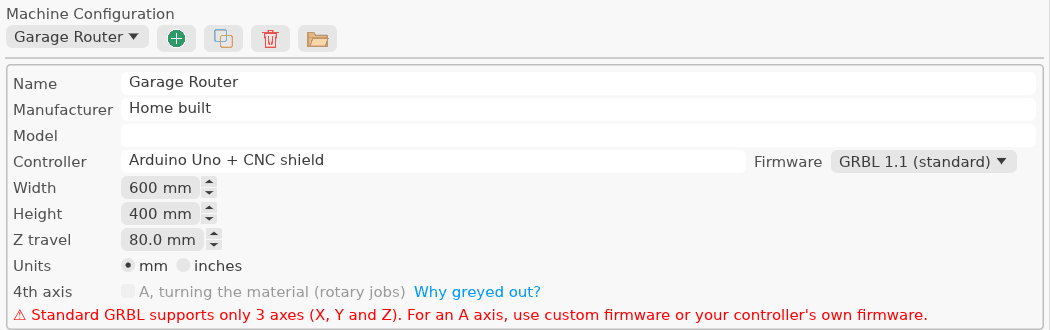
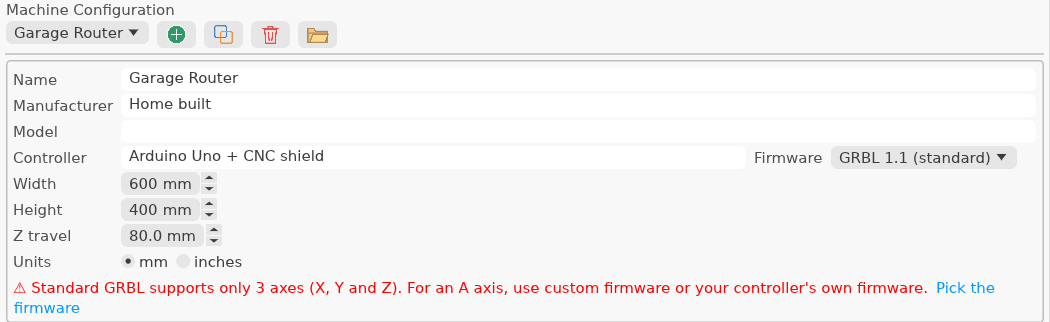
fix: no 4th axis option at all on standard GRBL
Matthew: remove A on standard GRBL rather than grey it out. The 4th axis row
is now left out for standard GRBL; a tick kept from before still shows the red
warning, now with a link to the Firmware choice.

Claude-Session: https://claude.ai/code/session_01Uqr4BHzmagQu1FgiQuYC1m

diff --git a/crates/machines/src/manager.rs b/crates/machines/src/manager.rs
@@ -294,8 +294,8 @@ impl MachineManager {
 }
 
 /// Name, maker, model, controller, firmware, bed size, Z travel and 4th axis, in a framed
-/// block. `find_firmware`: the 4th axis warning's link was clicked, so the Firmware choice is
-/// scrolled to and focused.
+/// block; no 4th axis on standard GRBL, which has none. `find_firmware`: the warning's link
+/// was clicked, so the Firmware choice is scrolled to and focused.
 fn details(ui: &mut egui::Ui, machine: &mut Machine, library: &Library, find_firmware: &mut bool) {
     ui.group(|ui| {
         ui.set_width(ui.available_width());
@@ -342,49 +342,37 @@ fn details(ui: &mut egui::Ui, machine: &mut Machine, library: &Library, find_fir
                     ui.radio_value(&mut machine.inches, true, "inches");
                 });
                 ui.end_row();
-                ui.label("4th axis");
-                let can = machine.firmware().has_a_axis();
-                let mut ticked = machine.rotary && can;
-                let mut changed = false;
-                ui.horizontal(|ui| {
-                    changed = ui
-                        .add_enabled(
-                            can,
-                            egui::Checkbox::new(
-                                &mut ticked,
-                                "A, turning the material (rotary jobs)",
-                            ),
-                        )
+                // standard GRBL has no A axis: no 4th axis to offer at all
+                if machine.firmware().has_a_axis() {
+                    ui.label("4th axis");
+                    let mut ticked = machine.rotary;
+                    if ui
+                        .checkbox(&mut ticked, "A, turning the material (rotary jobs)")
                         .on_hover_hint(
                             "Rotary jobs are saved through the machine's post that turns their \
                              side into A; ticking this adds Cut Craft's for its posts",
                         )
-                        .on_disabled_hover_text(NO_A_AXIS)
-                        .changed();
-                    // greyed out: why, and the way to the Firmware choice
-                    if !can
-                        && ui
-                            .link("Why greyed out?")
-                            .on_hover_text(format!("{NO_A_AXIS} Click to pick the firmware."))
-                            .clicked()
+                        .changed()
                     {
-                        *find_firmware = true;
+                        machine.rotary = ticked;
+                        if ticked {
+                            let names: Vec<String> =
+                                library.entries().into_iter().map(|e| e.name).collect();
+                            machine.add_rotary_posts(&names);
+                        }
                     }
-                });
-                if changed {
-                    machine.rotary = ticked;
-                    if ticked {
-                        let names: Vec<String> =
-                            library.entries().into_iter().map(|e| e.name).collect();
-                        machine.add_rotary_posts(&names);
-                    }
+                    ui.end_row();
                 }
-                ui.end_row();
             });
         // a 4th axis ticked before, that its firmware cannot drive (below the grid, so it
         // wraps to the window)
         if machine.rotary && !machine.firmware().has_a_axis() {
-            ui.colored_label(ui.visuals().error_fg_color, format!("⚠ {NO_A_AXIS}"));
+            ui.horizontal_wrapped(|ui| {
+                ui.colored_label(ui.visuals().error_fg_color, format!("⚠ {NO_A_AXIS}"));
+                if ui.link("Pick the firmware").clicked() {
+                    *find_firmware = true;
+                }
+            });
         }
     });
 }

diff --git a/crates/help/pages/concepts/rotary_firmware.md b/crates/help/pages/concepts/rotary_firmware.md
@@ -20,15 +20,15 @@ part-way through a job.
 
 ## Setting it
 
-![Machine Configuration on standard GRBL: the 4th axis greyed out, with the warning](pictures/concepts/rotary_firmware.png)
+![Machine Configuration on standard GRBL: no 4th axis to tick](pictures/concepts/rotary_firmware.png)
 
 1. Open **Machine ▸ Machine Configuration** and pick your machine.
 2. Choose its **Firmware**. Until you choose, Cut Craft reads it from the **Controller** box
    (for example "grblHAL" or "FluidNC"). If that names none, it takes **standard GRBL**,
    which has no A axis.
-3. Tick **4th axis**. On standard GRBL the tick is greyed out, with this warning:
-   *"Standard GRBL supports only 3 axes (X, Y and Z). For an A axis, use custom firmware or
-   your controller's own firmware."* Its link takes you to the Firmware choice.
+3. Tick **4th axis**. On standard GRBL there is no **4th axis** to tick at all: standard GRBL
+   supports only 3 axes (X, Y and Z). For an A axis, use custom firmware or your controller's
+   own firmware, and choose it under **Firmware**.
 4. Press **Apply**.
 
 Ticking **4th axis** adds Cut Craft's rotary posts for your machine, named **Rotary A, cylinder
@@ -36,5 +36,6 @@ along X** and **along Y**. GRBL's are named **grblHAL**, since standard GRBL can
 Choose posts in [Post-Processor Management](help:post_processor_management), and set up a
 rotary job in [Job Setup](help:job_setup).
 
-If you change the firmware back to standard GRBL, the tick is kept but doesn't count, and
-[Save Toolpaths](help:save_toolpaths) won't save a rotary job for that machine.
+If you change the firmware back to standard GRBL, the 4th axis disappears and a red warning
+says why, with a link to the Firmware choice. [Save Toolpaths](help:save_toolpaths) won't save
+a rotary job for that machine.

diff --git a/docs/tool-inventory.md b/docs/tool-inventory.md
@@ -144,7 +144,7 @@ say "not implemented yet".
   Package machines list GRBL Arcs and Straight in mm and inches, Arcs in their units first.
   A machine's Firmware (GRBL 1.1, grblHAL, FluidNC, Mach3 / Mach4, Other; not picked, read
   from its Controller text, unknown = standard GRBL) decides whether it can have a 4th axis:
-  on standard GRBL the tick is greyed out with a warning linking to the choice. The 4th axis
+  standard GRBL has no 4th axis row at all (a tick kept from before shows a red warning linking to the choice). The 4th axis
   (A) tick adds the G93 Rotary A twins of its Cut Craft posts; a rotary job saves through
   the machine's post wrapping its side (Y for a cylinder along X), and is refused on a
   machine without the 4th axis, on standard GRBL, or without such a post. Flat jobs
